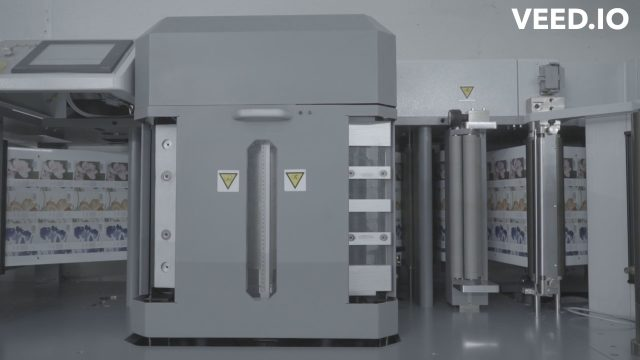
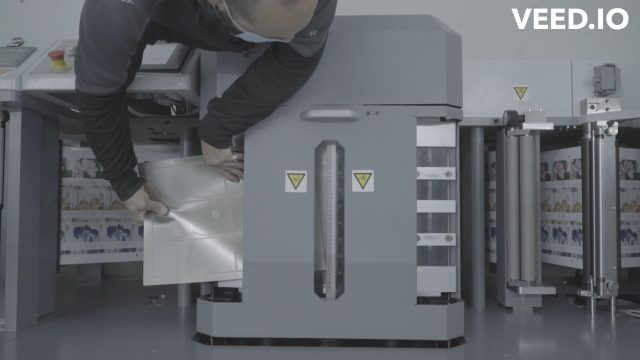
Deepen content mining across markets + add video hosting manifest
- Add slide decks (real BOBST photography, mostly sourced from the same
  Loupe Website PPTX decks) to markets that had video but no supporting
  imagery yet: Productivity/Flexible Packaging, Productivity/Folding
  Carton, Quality/Flexible Packaging, Sustainability/Flexible Packaging,
  Sustainability/Labels, Lifecycle/Folding Carton, Lifecycle/Labels
- Extract 4 more embedded videos that were only available inside the
  large PPTX decks and not represented by any standalone file:
  MASTER M6 vision/pillars overview, DIGIFLEXO automation demo,
  All-in-One modular press animation (Productivity/Labels), and an
  "Expand Your Label Production" showcase (Sustainability/Labels)
- Add VIDEO_HOSTING_TODO.md: a manifest of every video still playing
  from a local file (no Vimeo/YouTube link yet) with title, path and
  size, for hosting/upload planning — public/videos/ stays organized
  by station/market and gitignored as before
- Reviewed TCO_Flexo.xlsx (Quality/Labels) — it's a raw TCO calculator
  model (inputs/formulas only), no narrative stats to surface as-is

diff --git a/src/main.js b/src/main.js
@@ -90,6 +90,16 @@ const stations = {
             src: '/videos/productivity-solutions/flexible-packaging/smartgps-ci-flexo-press.mp4',
           },
         ],
+        slides: [
+          {
+            title: 'smartGPS — SAMM 3.0 Mounting Unit',
+            image: '/images/productivity-solutions/flexible-packaging/smartgps-samm-unit.jpg',
+          },
+          {
+            title: 'smartGPS Live on the Show Floor',
+            image: '/images/productivity-solutions/flexible-packaging/smartgps-live-demo-floor.jpg',
+          },
+        ],
       },
       'folding-carton': {
         blurb:
@@ -103,6 +113,16 @@ const stations = {
             title: 'Tooling, TooLink and CITO — Proof Points',
             poster: '/posters/productivity-solutions/folding-carton/tooling-toolink-cito-proof-points.jpg',
             src: '/videos/productivity-solutions/folding-carton/tooling-toolink-cito-proof-points.mp4',
+          },
+        ],
+        slides: [
+          {
+            title: 'High Performance Tooling — Precision Detail',
+            image: '/images/productivity-solutions/folding-carton/tooling-close-up.jpg',
+          },
+          {
+            title: 'Loading a High Performance Die Plate',
+            image: '/images/productivity-solutions/folding-carton/tooling-plate-loading.jpg',
           },
         ],
       },
@@ -133,6 +153,21 @@ const stations = {
             provider: 'youtube',
             embedId: 'p-n1VRqWWn8',
           },
+          {
+            title: 'MASTER M6 — Exceptionally Productive',
+            poster: '/posters/productivity-solutions/labels/master-m6-vision-pillars.jpg',
+            src: '/videos/productivity-solutions/labels/master-m6-vision-pillars.mp4',
+          },
+          {
+            title: 'DIGIFLEXO in Action — Automated Register & Pressure Control',
+            poster: '/posters/productivity-solutions/labels/digiflexo-automation-demo.jpg',
+            src: '/videos/productivity-solutions/labels/digiflexo-automation-demo.mp4',
+          },
+          {
+            title: 'All-in-One Modular Press — Build Your Line',
+            poster: '/posters/productivity-solutions/labels/all-in-one-modular-press.jpg',
+            src: '/videos/productivity-solutions/labels/all-in-one-modular-press.mp4',
+          },
         ],
       },
     },
@@ -154,6 +189,12 @@ const stations = {
             title: 'oneECG — Digitalizing Color Consistency',
             poster: '/posters/quality-color-consistency/flexible-packaging/oneecg-proof-points.jpg',
             src: '/videos/quality-color-consistency/flexible-packaging/oneecg-proof-points.mp4',
+          },
+        ],
+        slides: [
+          {
+            title: 'oneECG — 95%+ Pantone Book Match',
+            image: '/images/quality-color-consistency/flexible-packaging/oneecg-pantone-match-review.jpg',
           },
         ],
       },
@@ -243,6 +284,12 @@ const stations = {
             src: '/videos/sustainability-innovation/flexible-packaging/onebarrier-proof-points.mp4',
           },
         ],
+        slides: [
+          {
+            title: 'oneBARRIER & Partners — Innovating Together',
+            image: '/images/sustainability-innovation/flexible-packaging/onebarrier-partner-discussion.jpg',
+          },
+        ],
       },
       'folding-carton': {
         blurb:
@@ -277,6 +324,17 @@ const stations = {
             title: 'BOBST FLEXJET — Simplifying Multilayer Labels Production',
             poster: '/posters/sustainability-innovation/labels/flexjet-multilayer-labels.jpg',
             src: '/videos/sustainability-innovation/labels/flexjet-multilayer-labels.mp4',
+          },
+          {
+            title: 'Expand Your Label Production',
+            poster: '/posters/sustainability-innovation/labels/expand-label-production.jpg',
+            src: '/videos/sustainability-innovation/labels/expand-label-production.mp4',
+          },
+        ],
+        slides: [
+          {
+            title: 'Multilayer Extended Content Label',
+            image: '/images/sustainability-innovation/labels/multilayer-extended-content-label.jpg',
           },
         ],
       },
@@ -319,6 +377,16 @@ const stations = {
         videos: [
           { title: 'See How Midlands Packaging Is Advancing Quality and Efficiency with BOBST', provider: 'vimeo', embedId: '1089981976' },
         ],
+        slides: [
+          {
+            title: 'Reviewing Real-Time Performance Data',
+            image: '/images/lifecycle-performance-services/folding-carton/bobst-connect-performance-review.jpg',
+          },
+          {
+            title: 'A Long-Term View of Your Production Floor',
+            image: '/images/lifecycle-performance-services/folding-carton/plant-overview.jpg',
+          },
+        ],
       },
       'labels': {
         blurb:
@@ -332,6 +400,20 @@ const stations = {
             title: 'BOBST Services — Connected to Power Your Performance',
             poster: '/posters/lifecycle-performance-services/labels/service-performance-overview.jpg',
             src: '/videos/lifecycle-performance-services/labels/service-performance-overview.mp4',
+          },
+        ],
+        slides: [
+          {
+            title: 'BOBST DIGITAL MASTER 340 — Upgradable by Design',
+            image: '/images/lifecycle-performance-services/labels/digital-master-340.jpg',
+          },
+          {
+            title: 'Expert Field Service, On Site',
+            image: '/images/lifecycle-performance-services/labels/field-service-technician.jpg',
+          },
+          {
+            title: 'From Beverage to Personal Care — Every Label Application',
+            image: '/images/lifecycle-performance-services/labels/label-application-range.jpg',
           },
         ],
       },

diff --git a/VIDEO_HOSTING_TODO.md b/VIDEO_HOSTING_TODO.md
@@ -1,0 +1,78 @@
+# Videos Still Needing External Hosting
+
+These are all the videos currently referenced in `src/main.js` that do **not**
+have a Vimeo/YouTube link yet — they're playing from local files in
+`public/videos/` (gitignored, dev-only). Everything below needs to either:
+
+1. Get uploaded to Vimeo (or another host) and swapped to a `provider`/`embedId`
+   entry in `main.js`, **or**
+2. Get manually uploaded to a persistent volume on Railway and referenced by
+   URL, if we're going the "temporary, conference-only, ~5 concurrent viewers"
+   route instead of Vimeo.
+
+Total: **27 files, ~7.4 GB**. They're organized under
+`public/videos/<station-slug>/<market-slug>/<file>.mp4`, matching the same
+station/market structure used everywhere else in the app (this folder is
+covered by `.gitignore` — `public/videos/`).
+
+## Productivity Solutions
+
+| Market | Title | File | Size |
+|---|---|---|---|
+| Flexible Packaging | BOBST smartGPS — Graphic Positioning System for CI Flexo | `productivity-solutions/flexible-packaging/smartgps-ci-flexo-press.mp4` | 191.3 MB |
+| Folding Carton | Tooling, TooLink and CITO — Proof Points | `productivity-solutions/folding-carton/tooling-toolink-cito-proof-points.mp4` | 399.4 MB |
+| Labels | MASTER M6 oneECG — BOBST Connect Live Demo | `productivity-solutions/labels/master-m6-oneecg-connect-live-demo.mp4` | 1029.3 MB |
+| Labels | Brook + Whittle: Automation in Action | `productivity-solutions/labels/brook-whittle-full.mp4` | 271.6 MB |
+| Labels | Die Plate Change | `productivity-solutions/labels/die-plate-change.mp4` | 38.8 MB |
+
+## Quality & Color Consistency
+
+| Market | Title | File | Size |
+|---|---|---|---|
+| Flexible Packaging | oneECG — Digitalizing Color Consistency | `quality-color-consistency/flexible-packaging/oneecg-proof-points.mp4` | 484.6 MB |
+| Folding Carton | ACCUPLATEN — Faster Die-Cutting Setup | `quality-color-consistency/folding-carton/accuplaten-speed-patching.mp4` | 129.6 MB |
+| Folding Carton | Drupa Proof Points — Die Cutting | `quality-color-consistency/folding-carton/drupa-proof-points-die-cutting.mp4` | 427 MB |
+| Labels | BOBST Connect — Quality Reports in the Cloud | `quality-color-consistency/labels/techproofpoint-connect-quality-reports.mp4` | 13.5 MB |
+| Labels | oneECG — Digitalizing Color Information for Labels | `quality-color-consistency/labels/techproofpoint-oneecg-digitizing-color.mp4` | 2.9 MB |
+| Labels | Animation — BOBST oneECG for Labels | `quality-color-consistency/labels/animation-oneecg-labels.mp4` | 4.5 MB |
+| Labels | Label Specialties — oneECG in Action | `quality-color-consistency/labels/label-specialties-oneecg.mp4` | 25.1 MB |
+| Labels | ACCUCHECK B1 — Introduction | `quality-color-consistency/labels/accucheck-b1-introduction.mp4` | 75.6 MB |
+| Labels | ACCUCHECK B2 — Inspection | `quality-color-consistency/labels/accucheck-b2-inspection.mp4` | 302.1 MB |
+| Labels | ACCUCHECK B3 — Registration | `quality-color-consistency/labels/accucheck-b3-registration.mp4` | 157.4 MB |
+| Labels | ACCUCHECK B4 — Colorimetry | `quality-color-consistency/labels/accucheck-b4-colorimetry.mp4` | 188.3 MB |
+| Labels | ACCUCHECK B5 — Barcodes & QR Codes | `quality-color-consistency/labels/accucheck-b5-barcodes-qr-codes.mp4` | 165.4 MB |
+| Labels | ACCUCHECK B6 — Intro to Calibration | `quality-color-consistency/labels/accucheck-b6-intro-calibration.mp4` | 39.2 MB |
+| Labels | ACCUCHECK B7 — Calibration, Angle & Stitch | `quality-color-consistency/labels/accucheck-b7-calibration-angle-stitch.mp4` | 201.2 MB |
+| Labels | ACCUCHECK B8 — Color to Color | `quality-color-consistency/labels/accucheck-b8-color-to-color.mp4` | 106.7 MB |
+| Labels | ACCUCHECK B9 — Color Uniformity | `quality-color-consistency/labels/accucheck-b9-color-uniformity.mp4` | 154.1 MB |
+| Labels | ACCUCHECK — Full Edit | `quality-color-consistency/labels/accucheck-full-edit.mp4` | 1604.2 MB |
+
+## Sustainability & Application Innovation
+
+| Market | Title | File | Size |
+|---|---|---|---|
+| Flexible Packaging | oneBARRIER — Sustainable Barrier Solutions | `sustainability-innovation/flexible-packaging/onebarrier-proof-points.mp4` | 694.5 MB |
+| Labels | BOBST FLEXJET — Simplifying Multilayer Labels Production | `sustainability-innovation/labels/flexjet-multilayer-labels.mp4` | 470.5 MB |
+
+## Lifecycle Performance & Services
+
+| Market | Title | File | Size |
+|---|---|---|---|
+| Labels | BOBST Services — Connected to Power Your Performance | `lifecycle-performance-services/labels/service-performance-overview.mp4` | 55.5 MB |
+
+## Notes
+
+- Every other video already has a Vimeo or YouTube link and plays as an
+  embed (no hosting action needed for those).
+- `ACCUCHECK — Full Edit` (1.6 GB) is the single biggest file — it's the
+  full compilation of the individual ACCUCHECK B1–B11 clips, which are also
+  listed separately above. Worth asking whether we still need the full-edit
+  version once all the individual chapters are hosted, to cut ~1.6 GB.
+- If hosting on Railway: a persistent [volume](https://docs.railway.com/reference/volumes)
+  mounted at something like `/data/videos` and served statically (or via a
+  tiny Express/static route) would work fine for ~5 concurrent kiosk
+  viewers. Swap each `src:` path in `main.js` to the Railway-served URL once
+  uploaded — no code changes needed beyond the path itself.
+- If hosting on Vimeo: once uploaded, replace the `{ poster, src }` pair
+  with `{ title, provider: 'vimeo', embedId: '...' }` (see any existing
+  entry with `provider: 'vimeo'` in `src/main.js` for the exact shape).
